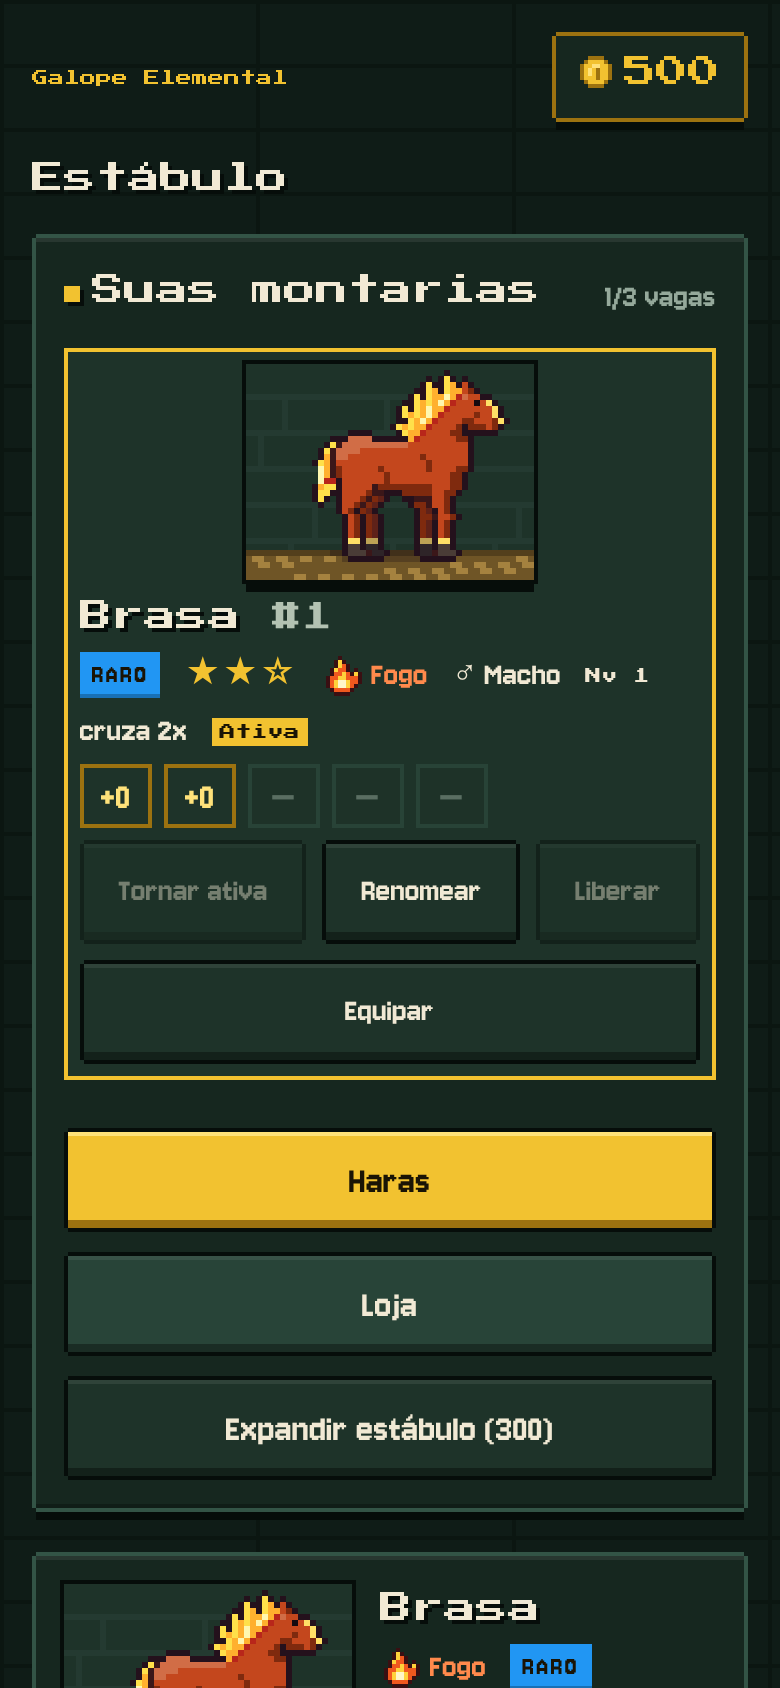
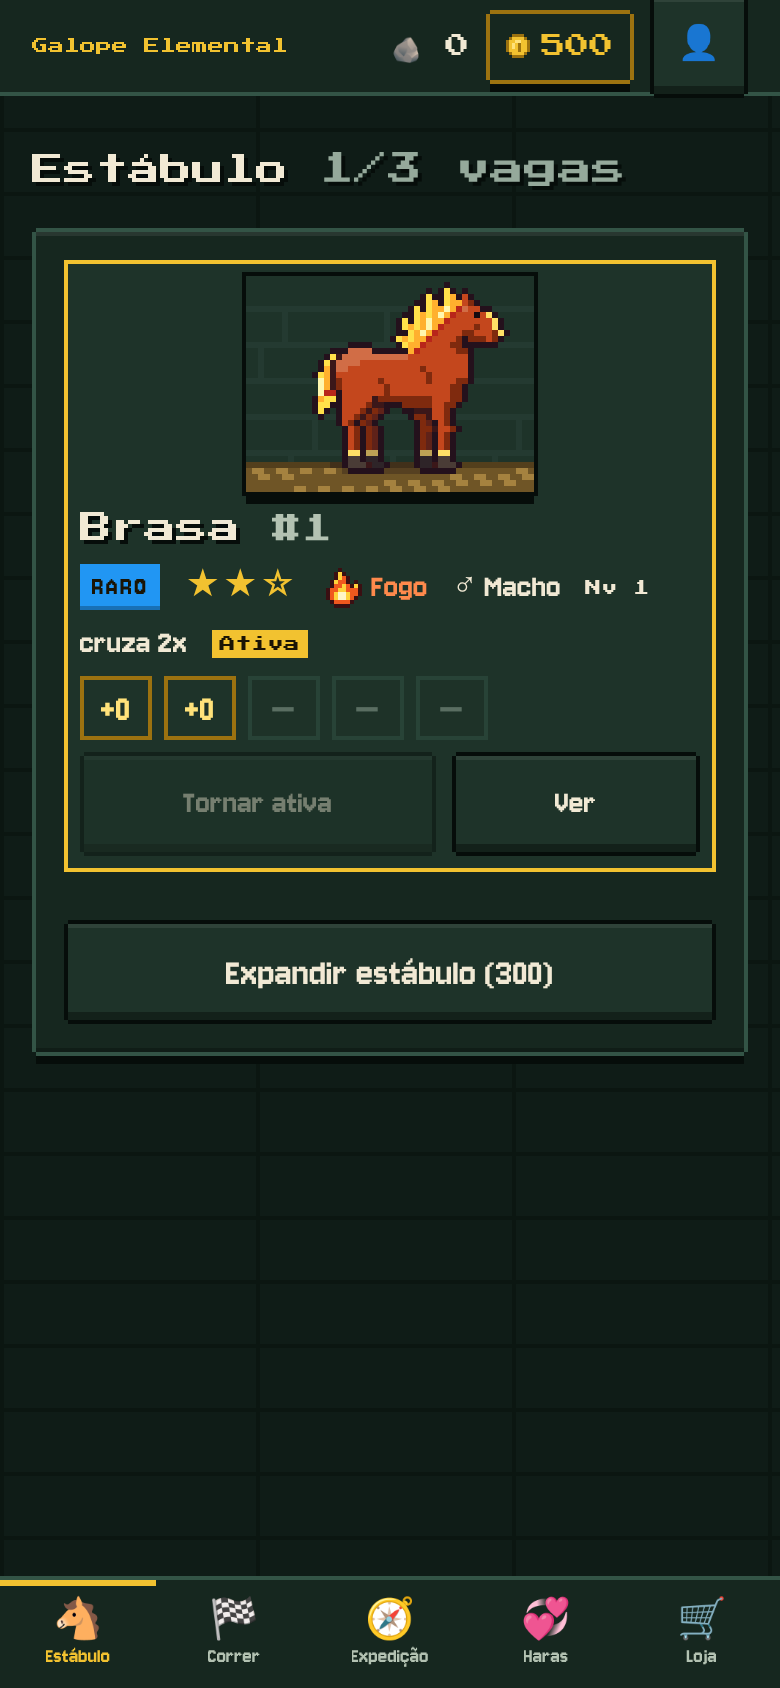
Perfil, barra à esquerda no desktop, capturas novas e documentação do menu de abas
Claude-Session: https://claude.ai/code/session_01MGExzKELAJ58uyj4wakVgJ

diff --git a/prototype/dist/jogo.html b/prototype/dist/jogo.html
@@ -5115,10 +5115,19 @@ html.app-com-abas { scroll-padding: 56px 0 calc(72px + env(safe-area-inset-botto
         '<span class="app-aba-icone" aria-hidden="true">' + a.icone + '</span><span class="app-aba-rotulo">' + esc(a.rotulo) + '</span></button>';
     }).join('') + '</nav>';
   }
-  // Perfil provisório: por enquanto só o "Recomeçar" (estatísticas na próxima tarefa)
+  // Perfil: estatísticas, saldo, inventário e "Recomeçar com outro inicial"
   function renderPerfil() {
-    return '<section class="tela" aria-labelledby="t-perfil"><h1 class="titulo titulo--tela" id="t-perfil" tabindex="-1" data-foco>Perfil</h1>' +
-      '<p class="nota">Em construção.</p><footer class="caixa">' + resetHtml() + '</footer></section>';
+    return '<section class="tela" aria-labelledby="t-perfil">' +
+      '<button type="button" class="btn btn--texto" data-acao="perfil-voltar">Voltar</button>' +
+      '<h1 class="titulo titulo--tela" id="t-perfil" tabindex="-1" data-foco>Perfil</h1>' +
+      '<div class="caixa">' +
+        '<div class="linha-meta"><span>Corridas <b>' + fmt(state.races) + '</b></span><span>Vitórias <b>' + fmt(state.wins) + '</b></span>' +
+          '<span>Pódios <b>' + fmt(state.podiums) + '</b></span><span>Prêmios ' + ouroHtml(state.goldWon) + '</span></div>' +
+        '<div class="linha-meta"><span>Ouro ' + ouroHtml(state.gold) + '</span><span>Pedras <b>🪨 ' + fmt(state.pedras) + '</b></span></div>' +
+        '<div class="linha-meta"><span>' + esc(state.mounts.length) + (state.mounts.length === 1 ? ' montaria' : ' montarias') + ' · ' +
+          esc(state.items.length) + (state.items.length === 1 ? ' peça' : ' peças') + '</span></div>' +
+      '</div>' +
+      '<footer class="caixa">' + resetHtml() + '</footer></section>';
   }
 
   // ===========================================================================
@@ -5715,7 +5724,6 @@ html.app-com-abas { scroll-padding: 56px 0 calc(72px + env(safe-area-inset-botto
           '<h1 class="titulo titulo--tela" id="t-montaria" tabindex="-1" data-foco>' + esc(m.name) + ' <small>#' + esc(uidNum(m.uid)) + '</small></h1>' +
           '<div class="linha-meta">' + rarityHtml(m.rarity) + estrelasHtml(m.grau) + elementHtml(m.element) +
             '<span>' + (m.sex === 'f' ? '♀ Fêmea' : '♂ Macho') + '</span>' +
-            '<span class="nivel">Nv ' + esc(m.level) + '</span>' +
             '<span>cruza ' + esc(m.breedLeft) + 'x</span>' + corcel +
             (isActive ? '<span class="badge-ativa">Ativa</span>' : '') +
           '</div>' +
@@ -5788,7 +5796,7 @@ html.app-com-abas { scroll-padding: 56px 0 calc(72px + env(safe-area-inset-botto
   function pedraProdutoHtml(n) {
     return '<article class="produto">' +
       '<h3 class="produto-nome">Pedra Negra ×' + n + '</h3>' +
-      '<p class="produto-diff">' + esc('Melhora peças na tela Equipar. Você tem ' + pedrasTxt(state.pedras) + '.') + '</p>' +
+      '<p class="produto-diff">' + esc('Melhora peças na aba Equipamento da montaria. Você tem ' + pedrasTxt(state.pedras) + '.') + '</p>' +
       '<div class="produto-preco">' + lojaBotaoHtml('comprar-pedra', String(n), n * GE.stonePrice) + '</div>' +
     '</article>';
   }
@@ -5809,7 +5817,7 @@ html.app-com-abas { scroll-padding: 56px 0 calc(72px + env(safe-area-inset-botto
         return GD.GEAR[k].shop && GD.GEAR[k].slot === Q.tab;
       }).map(function (k) { return produtoHtml(GD.GEAR[k]); }).join('');
     }
-    var nota = Q.tab === 'pedras' ? 'Pedras Negras melhoram peças (+1 a +10) na tela Equipar.'
+    var nota = Q.tab === 'pedras' ? 'Pedras Negras melhoram peças (+1 a +10) na aba Equipamento da montaria.'
       : 'A diferença compara com a peça que ' + activeMount().name + ' (ativa) usa neste slot. Comprar não equipa.';
     return '<section class="tela" aria-labelledby="t-loja">' + head + msg +
       '<section class="caixa">' + abas + '<p class="nota">' + esc(nota) + '</p>' +
@@ -6872,7 +6880,7 @@ html.app-com-abas { scroll-padding: 56px 0 calc(72px + env(safe-area-inset-botto
         newItem(id);
         persist();
         if (state !== sC) break;
-        ui.loja.msg = 'Comprou ' + pd.name + '. Equipe na tela Equipar.';
+        ui.loja.msg = 'Comprou ' + pd.name + '. Equipe na aba Equipamento da montaria.';
         rerenderKeepScroll(); break;
       }
       case 'comprar-pedra': {
@@ -6895,9 +6903,10 @@ html.app-com-abas { scroll-padding: 56px 0 calc(72px + env(safe-area-inset-botto
       case 'equipar-tela':            // "Equipar" da aba Correr e da largada
         goMontaria(id, 'equip'); break;
       case 'montaria-aba':
-        if (!ui.montaria || ['status', 'skills', 'equip'].indexOf(id) < 0) break;
+        if (!ui.montaria || !MONTARIA_ABAS.some(function (a) { return a.id === id; })) break;
         ui.montaria.aba = id; rerenderKeepScroll(); break;
       case 'montaria-voltar':
+      case 'perfil-voltar':
         go(ui.tab); break;
       case 'equip-slot':
         if (!ui.montaria || GR.SLOTS.indexOf(id) < 0) break;
@@ -7052,7 +7061,8 @@ html.app-com-abas { scroll-padding: 56px 0 calc(72px + env(safe-area-inset-botto
           state.mounts = state.mounts.filter(function (m) { return m.uid !== id; });
           persist();
         }
-        rerenderKeepScroll(); break;
+        if (ui.screen === 'montaria') go(ui.tab); else rerenderKeepScroll();
+        break;
       case 'expandir':
         if (state.stableSlots >= BR.stableSlotsMax || state.gold < SLOT_PRICE) { rerenderKeepScroll(); break; }
         state.gold -= SLOT_PRICE; state.stableSlots += 1; persist(); rerenderKeepScroll(); break;

diff --git a/prototype/dist/preview.html b/prototype/dist/preview.html
@@ -5116,10 +5116,19 @@ html.app-com-abas { scroll-padding: 56px 0 calc(72px + env(safe-area-inset-botto
         '<span class="app-aba-icone" aria-hidden="true">' + a.icone + '</span><span class="app-aba-rotulo">' + esc(a.rotulo) + '</span></button>';
     }).join('') + '</nav>';
   }
-  // Perfil provisório: por enquanto só o "Recomeçar" (estatísticas na próxima tarefa)
+  // Perfil: estatísticas, saldo, inventário e "Recomeçar com outro inicial"
   function renderPerfil() {
-    return '<section class="tela" aria-labelledby="t-perfil"><h1 class="titulo titulo--tela" id="t-perfil" tabindex="-1" data-foco>Perfil</h1>' +
-      '<p class="nota">Em construção.</p><footer class="caixa">' + resetHtml() + '</footer></section>';
+    return '<section class="tela" aria-labelledby="t-perfil">' +
+      '<button type="button" class="btn btn--texto" data-acao="perfil-voltar">Voltar</button>' +
+      '<h1 class="titulo titulo--tela" id="t-perfil" tabindex="-1" data-foco>Perfil</h1>' +
+      '<div class="caixa">' +
+        '<div class="linha-meta"><span>Corridas <b>' + fmt(state.races) + '</b></span><span>Vitórias <b>' + fmt(state.wins) + '</b></span>' +
+          '<span>Pódios <b>' + fmt(state.podiums) + '</b></span><span>Prêmios ' + ouroHtml(state.goldWon) + '</span></div>' +
+        '<div class="linha-meta"><span>Ouro ' + ouroHtml(state.gold) + '</span><span>Pedras <b>🪨 ' + fmt(state.pedras) + '</b></span></div>' +
+        '<div class="linha-meta"><span>' + esc(state.mounts.length) + (state.mounts.length === 1 ? ' montaria' : ' montarias') + ' · ' +
+          esc(state.items.length) + (state.items.length === 1 ? ' peça' : ' peças') + '</span></div>' +
+      '</div>' +
+      '<footer class="caixa">' + resetHtml() + '</footer></section>';
   }
 
   // ===========================================================================
@@ -5716,7 +5725,6 @@ html.app-com-abas { scroll-padding: 56px 0 calc(72px + env(safe-area-inset-botto
           '<h1 class="titulo titulo--tela" id="t-montaria" tabindex="-1" data-foco>' + esc(m.name) + ' <small>#' + esc(uidNum(m.uid)) + '</small></h1>' +
           '<div class="linha-meta">' + rarityHtml(m.rarity) + estrelasHtml(m.grau) + elementHtml(m.element) +
             '<span>' + (m.sex === 'f' ? '♀ Fêmea' : '♂ Macho') + '</span>' +
-            '<span class="nivel">Nv ' + esc(m.level) + '</span>' +
             '<span>cruza ' + esc(m.breedLeft) + 'x</span>' + corcel +
             (isActive ? '<span class="badge-ativa">Ativa</span>' : '') +
           '</div>' +
@@ -5789,7 +5797,7 @@ html.app-com-abas { scroll-padding: 56px 0 calc(72px + env(safe-area-inset-botto
   function pedraProdutoHtml(n) {
     return '<article class="produto">' +
       '<h3 class="produto-nome">Pedra Negra ×' + n + '</h3>' +
-      '<p class="produto-diff">' + esc('Melhora peças na tela Equipar. Você tem ' + pedrasTxt(state.pedras) + '.') + '</p>' +
+      '<p class="produto-diff">' + esc('Melhora peças na aba Equipamento da montaria. Você tem ' + pedrasTxt(state.pedras) + '.') + '</p>' +
       '<div class="produto-preco">' + lojaBotaoHtml('comprar-pedra', String(n), n * GE.stonePrice) + '</div>' +
     '</article>';
   }
@@ -5810,7 +5818,7 @@ html.app-com-abas { scroll-padding: 56px 0 calc(72px + env(safe-area-inset-botto
         return GD.GEAR[k].shop && GD.GEAR[k].slot === Q.tab;
       }).map(function (k) { return produtoHtml(GD.GEAR[k]); }).join('');
     }
-    var nota = Q.tab === 'pedras' ? 'Pedras Negras melhoram peças (+1 a +10) na tela Equipar.'
+    var nota = Q.tab === 'pedras' ? 'Pedras Negras melhoram peças (+1 a +10) na aba Equipamento da montaria.'
       : 'A diferença compara com a peça que ' + activeMount().name + ' (ativa) usa neste slot. Comprar não equipa.';
     return '<section class="tela" aria-labelledby="t-loja">' + head + msg +
       '<section class="caixa">' + abas + '<p class="nota">' + esc(nota) + '</p>' +
@@ -6873,7 +6881,7 @@ html.app-com-abas { scroll-padding: 56px 0 calc(72px + env(safe-area-inset-botto
         newItem(id);
         persist();
         if (state !== sC) break;
-        ui.loja.msg = 'Comprou ' + pd.name + '. Equipe na tela Equipar.';
+        ui.loja.msg = 'Comprou ' + pd.name + '. Equipe na aba Equipamento da montaria.';
         rerenderKeepScroll(); break;
       }
       case 'comprar-pedra': {
@@ -6896,9 +6904,10 @@ html.app-com-abas { scroll-padding: 56px 0 calc(72px + env(safe-area-inset-botto
       case 'equipar-tela':            // "Equipar" da aba Correr e da largada
         goMontaria(id, 'equip'); break;
       case 'montaria-aba':
-        if (!ui.montaria || ['status', 'skills', 'equip'].indexOf(id) < 0) break;
+        if (!ui.montaria || !MONTARIA_ABAS.some(function (a) { return a.id === id; })) break;
         ui.montaria.aba = id; rerenderKeepScroll(); break;
       case 'montaria-voltar':
+      case 'perfil-voltar':
         go(ui.tab); break;
       case 'equip-slot':
         if (!ui.montaria || GR.SLOTS.indexOf(id) < 0) break;
@@ -7053,7 +7062,8 @@ html.app-com-abas { scroll-padding: 56px 0 calc(72px + env(safe-area-inset-botto
           state.mounts = state.mounts.filter(function (m) { return m.uid !== id; });
           persist();
         }
-        rerenderKeepScroll(); break;
+        if (ui.screen === 'montaria') go(ui.tab); else rerenderKeepScroll();
+        break;
       case 'expandir':
         if (state.stableSlots >= BR.stableSlotsMax || state.gold < SLOT_PRICE) { rerenderKeepScroll(); break; }
         state.gold -= SLOT_PRICE; state.stableSlots += 1; persist(); rerenderKeepScroll(); break;

diff --git a/prototype/src/game.js b/prototype/src/game.js
@@ -828,10 +828,19 @@
         '<span class="app-aba-icone" aria-hidden="true">' + a.icone + '</span><span class="app-aba-rotulo">' + esc(a.rotulo) + '</span></button>';
     }).join('') + '</nav>';
   }
-  // Perfil provisório: por enquanto só o "Recomeçar" (estatísticas na próxima tarefa)
+  // Perfil: estatísticas, saldo, inventário e "Recomeçar com outro inicial"
   function renderPerfil() {
-    return '<section class="tela" aria-labelledby="t-perfil"><h1 class="titulo titulo--tela" id="t-perfil" tabindex="-1" data-foco>Perfil</h1>' +
-      '<p class="nota">Em construção.</p><footer class="caixa">' + resetHtml() + '</footer></section>';
+    return '<section class="tela" aria-labelledby="t-perfil">' +
+      '<button type="button" class="btn btn--texto" data-acao="perfil-voltar">Voltar</button>' +
+      '<h1 class="titulo titulo--tela" id="t-perfil" tabindex="-1" data-foco>Perfil</h1>' +
+      '<div class="caixa">' +
+        '<div class="linha-meta"><span>Corridas <b>' + fmt(state.races) + '</b></span><span>Vitórias <b>' + fmt(state.wins) + '</b></span>' +
+          '<span>Pódios <b>' + fmt(state.podiums) + '</b></span><span>Prêmios ' + ouroHtml(state.goldWon) + '</span></div>' +
+        '<div class="linha-meta"><span>Ouro ' + ouroHtml(state.gold) + '</span><span>Pedras <b>🪨 ' + fmt(state.pedras) + '</b></span></div>' +
+        '<div class="linha-meta"><span>' + esc(state.mounts.length) + (state.mounts.length === 1 ? ' montaria' : ' montarias') + ' · ' +
+          esc(state.items.length) + (state.items.length === 1 ? ' peça' : ' peças') + '</span></div>' +
+      '</div>' +
+      '<footer class="caixa">' + resetHtml() + '</footer></section>';
   }
 
   // ===========================================================================
@@ -1428,7 +1437,6 @@
           '<h1 class="titulo titulo--tela" id="t-montaria" tabindex="-1" data-foco>' + esc(m.name) + ' <small>#' + esc(uidNum(m.uid)) + '</small></h1>' +
           '<div class="linha-meta">' + rarityHtml(m.rarity) + estrelasHtml(m.grau) + elementHtml(m.element) +
             '<span>' + (m.sex === 'f' ? '♀ Fêmea' : '♂ Macho') + '</span>' +
-            '<span class="nivel">Nv ' + esc(m.level) + '</span>' +
             '<span>cruza ' + esc(m.breedLeft) + 'x</span>' + corcel +
             (isActive ? '<span class="badge-ativa">Ativa</span>' : '') +
           '</div>' +
@@ -1501,7 +1509,7 @@
   function pedraProdutoHtml(n) {
     return '<article class="produto">' +
       '<h3 class="produto-nome">Pedra Negra ×' + n + '</h3>' +
-      '<p class="produto-diff">' + esc('Melhora peças na tela Equipar. Você tem ' + pedrasTxt(state.pedras) + '.') + '</p>' +
+      '<p class="produto-diff">' + esc('Melhora peças na aba Equipamento da montaria. Você tem ' + pedrasTxt(state.pedras) + '.') + '</p>' +
       '<div class="produto-preco">' + lojaBotaoHtml('comprar-pedra', String(n), n * GE.stonePrice) + '</div>' +
     '</article>';
   }
@@ -1522,7 +1530,7 @@
         return GD.GEAR[k].shop && GD.GEAR[k].slot === Q.tab;
       }).map(function (k) { return produtoHtml(GD.GEAR[k]); }).join('');
     }
-    var nota = Q.tab === 'pedras' ? 'Pedras Negras melhoram peças (+1 a +10) na tela Equipar.'
+    var nota = Q.tab === 'pedras' ? 'Pedras Negras melhoram peças (+1 a +10) na aba Equipamento da montaria.'
       : 'A diferença compara com a peça que ' + activeMount().name + ' (ativa) usa neste slot. Comprar não equipa.';
     return '<section class="tela" aria-labelledby="t-loja">' + head + msg +
       '<section class="caixa">' + abas + '<p class="nota">' + esc(nota) + '</p>' +
@@ -2585,7 +2593,7 @@
         newItem(id);
         persist();
         if (state !== sC) break;
-        ui.loja.msg = 'Comprou ' + pd.name + '. Equipe na tela Equipar.';
+        ui.loja.msg = 'Comprou ' + pd.name + '. Equipe na aba Equipamento da montaria.';
         rerenderKeepScroll(); break;
       }
       case 'comprar-pedra': {
@@ -2608,9 +2616,10 @@
       case 'equipar-tela':            // "Equipar" da aba Correr e da largada
         goMontaria(id, 'equip'); break;
       case 'montaria-aba':
-        if (!ui.montaria || ['status', 'skills', 'equip'].indexOf(id) < 0) break;
+        if (!ui.montaria || !MONTARIA_ABAS.some(function (a) { return a.id === id; })) break;
         ui.montaria.aba = id; rerenderKeepScroll(); break;
       case 'montaria-voltar':
+      case 'perfil-voltar':
         go(ui.tab); break;
       case 'equip-slot':
         if (!ui.montaria || GR.SLOTS.indexOf(id) < 0) break;
@@ -2765,7 +2774,8 @@
           state.mounts = state.mounts.filter(function (m) { return m.uid !== id; });
           persist();
         }
-        rerenderKeepScroll(); break;
+        if (ui.screen === 'montaria') go(ui.tab); else rerenderKeepScroll();
+        break;
       case 'expandir':
         if (state.stableSlots >= BR.stableSlotsMax || state.gold < SLOT_PRICE) { rerenderKeepScroll(); break; }
         state.gold -= SLOT_PRICE; state.stableSlots += 1; persist(); rerenderKeepScroll(); break;

diff --git a/docs/memoria/ESTADO.md b/docs/memoria/ESTADO.md
@@ -54,6 +54,15 @@ cruzamento no nível máximo) → 3. Inventário e set de equipamentos (modelo B
     expedições; meta E2 reformulada em E2a/E2b e E3 rebaseada (ver spec §16); 34 metas, com a
     E3b (corrida de 3 com uma Água como agente do Dado, pino 60–80%, medido 73,0%). Bônus de 4 peças
     fixado em ×1,07 em 2026-11-08 (era ×1,10).
+- **Frente de interface — Menu de abas: concluída na branch `claude/menu-abas` (aguardando revisão final e integração).**
+  Spec: `docs/superpowers/specs/2026-11-08-menu-abas-design.md` (§10 = ajustes da implementação).
+  - Entregue: casca com cabeçalho (saldo + Perfil) e barra de 5 abas (embaixo no celular, à esquerda
+    no desktop), Estábulo só lista, tela da Montaria com sub-abas Status/Skills/Equipamento, abas
+    Correr/Expedição/Haras/Loja, Perfil com estatísticas e Recomeçar, histórico do navegador sem
+    empilhar abas, painel `?dev=1` acima da barra.
+  - Verificação: `check.sh` em 5 etapas, 58 testes unitários, 34 metas, UI com o contexto `menu`,
+    12 capturas novas em `prototype/screens/`.
+  - Limites: ícones por caracteres até os visuais; a aba Expedição é um placeholder.
 - A economia virou o subprojeto 6 (a branch vazia `claude/economia-gdd` foi removida).
 
 ## Pronto
@@ -78,6 +87,7 @@ cruzamento no nível máximo) → 3. Inventário e set de equipamentos (modelo B
   `bestLevelFor`). `README.md` criado na raiz.
 
 ## Próximos passos
+0. Revisão final e integração da branch `claude/menu-abas`; depois expedições (subprojeto 4) e visuais.
 1. Vinicius joga os equipamentos (`prototype/dist/preview.html?dev=1` para Ouro, Pedras e conjunto Lendário)
    (bônus de 4 peças já fixado em ×1,07; a skill de clima segue em ×1,10).
 2. Subprojeto 4 (expedições, batalha por turnos estilo Origem Fadas; dão Ouro, XP e moeda de pacotes) —

diff --git a/docs/superpowers/specs/2026-11-08-menu-abas-design.md b/docs/superpowers/specs/2026-11-08-menu-abas-design.md
@@ -1,7 +1,6 @@
 # Menu de abas — Casca de navegação do protótipo — Design
 
-Status: **aguardando revisão do Vinicius**. Aprovado em conversa em 2026-11-08 (seções 1–4). Depois de
-aprovado vira plano (`docs/superpowers/plans/`) e, ao final, atualiza a seção 5 do `docs/GDD.md`.
+Status: **implementado na branch `claude/menu-abas` (2026-11-08); ver §10**.
 
 Frente de interface pedida pelo Vinicius em 2026-11-08 ("atualmente é só uma rolagem para baixo,
 precisamos melhorar"), executada **antes** do subprojeto 4 (expedições) e dos visuais pagos, nesta
@@ -153,3 +152,14 @@ colunas no desktop · animações de transição · mudar regras de jogo ou de s
 - **Histórico do navegador** é a parte mais fácil de quebrar (Voltar do Android). O teste 2 do contexto
   `menu` e o fluxo existente (Voltar na corrida pula para o resultado) cobrem.
 - **Capturas** mudam todas; é intencional (interface muda de propósito).
+
+## 10. Histórico de ajustes (implementação, 2026-11-08)
+- Renomear e Liberar foram para a tela da Montaria na Tarefa 3; o cartão do Estábulo os manteve na Tarefa 2 só para o teste.
+- "Ver" abriu o antigo Equipamento até a Tarefa 3.
+- `scroll-padding` adicionado em `html.app-com-abas` para a barra não cobrir o foco.
+- Os fallbacks de `largar` vão para a aba Correr.
+- O Perfil recebeu o "Recomeçar" cedo (Tarefa 2), para o fluxo principal do teste chegar ao `reset`.
+- O painel `?dev=1` sobe acima da barra de abas.
+- No desktop, o marcador da aba ativa é uma barra à esquerda.
+- Bordas de 2 px.
+- Liberar pela Montaria volta ao Estábulo (`go(ui.tab)`) com o foco no título.

diff --git a/docs/memoria/decisoes.md b/docs/memoria/decisoes.md
@@ -4,6 +4,11 @@ Formato: **data · decisão** — motivo. A mais nova fica no topo. Decisões de
 continuam no `docs/GDD.md`; aqui fica o registro de *quando* e *por quê*.
 
 ## 2026-11-08
+- **Menu de abas antes das expedições e dos visuais** (opção A do Vinicius) — a rolagem única do Estábulo não comportava as novas telas; a casca de navegação vem primeiro.
+- **5 abas (Estábulo, Correr, Expedição, Haras, Loja) + Perfil no cabeçalho** — Perfil guarda estatísticas e "Recomeçar", que não merecem uma aba.
+- **A casca fica dentro do `game.js`** — o protótipo é descartável; não vale separar arquivos antes de escolher a stack.
+- **Equipamento vira sub-aba da Montaria** (Status/Skills/Equipamento) e o Estábulo só lista — uma tela por assunto, sem rolagem longa.
+- **A corrida PVP continua automática**; as batalhas de expedição terão modo automático e manual (decisão do Vinicius para o subprojeto 4).
 - **Bônus de 4 peças do conjunto passa de ×1,10 para ×1,07** (`weatherMultSet`) — a skill de clima
   (×1,10) volta a valer mais que o conjunto e não acumula; com o Dado ligado a Brasa com 4 Raras do Sol
   caiu de 82,5% para 73,0% à frente da misturada (E3b, pino 60–80%); E3 recentrada em 65–85% (77,3%).

diff --git a/docs/GDD.md b/docs/GDD.md
@@ -79,6 +79,8 @@ Iniciais (Brasa, Maré, Ipê) são Raros e têm uma skill exclusiva do elemento.
 
 `prototype/` contém um protótipo web descartável para visualizar sprites, simulação e o fluxo de aposta. Não é a base de código final.
 
+**Fluxo de telas.** O jogo tem uma barra de 5 abas (Estábulo, Correr, Expedição, Haras, Loja), embaixo no celular e à esquerda no desktop (≥ 900 px), e um cabeçalho com o saldo (Ouro e Pedras) e o botão Perfil (estatísticas e "Recomeçar"). O Estábulo só lista as montarias; cada uma abre a tela da Montaria, com as sub-abas Status, Skills e Equipamento. Largada, corrida e resultado são telas cheias, sem barra. A corrida PVP continua automática; a aba Expedição é um espaço reservado até o subprojeto 4.
+
 ## 6. Estábulo e cruzamento
 
 Spec completa e algoritmo: `docs/superpowers/specs/2026-11-06-cruzamento-design.md` (o código é `prototype/src/breed.js`). Números reais: `docs/exemplos.md` §13.
